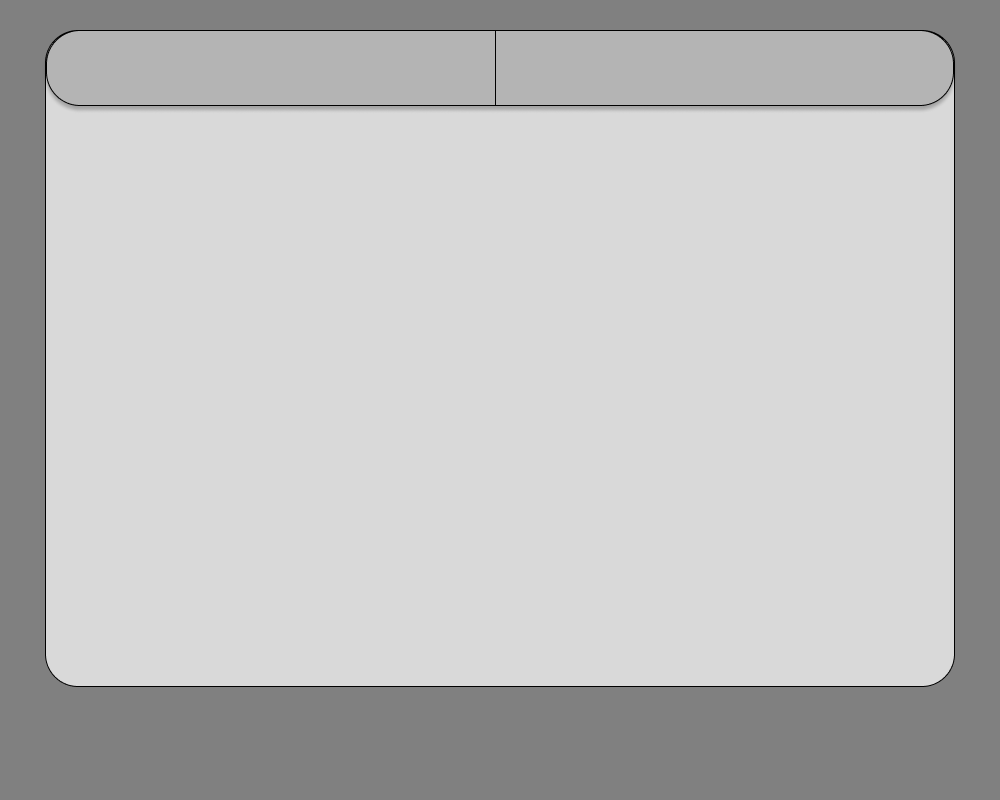
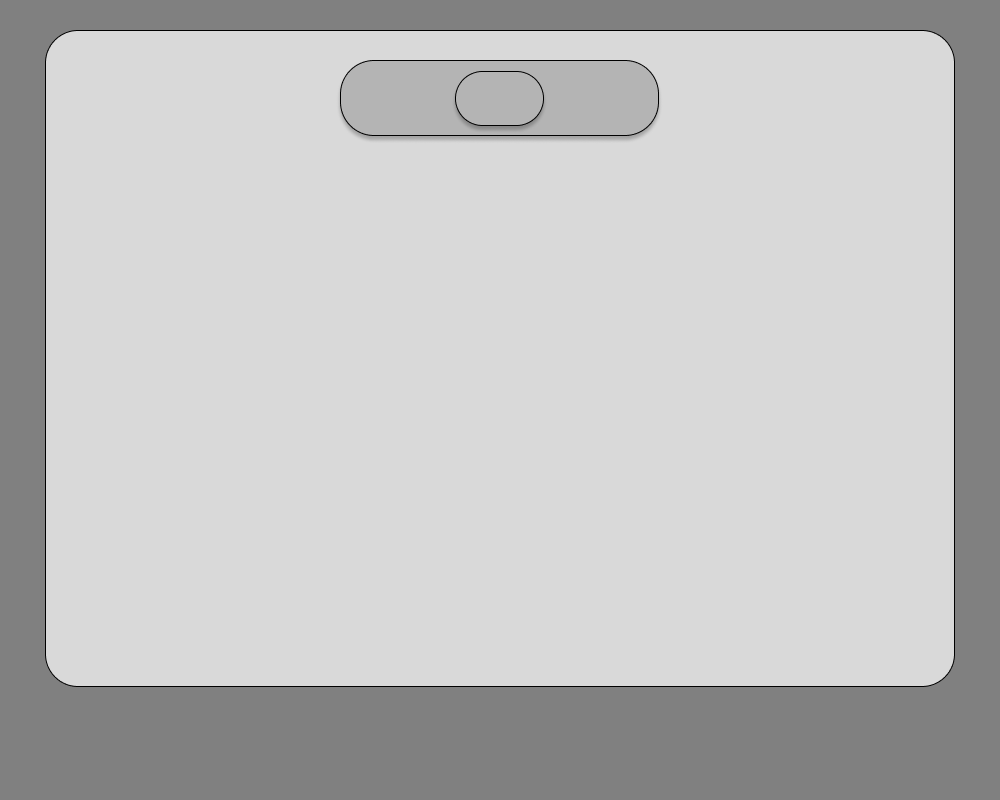
game juice, new ui design and more

Changed region(s): [[0.031, 0.0312, 0.961, 0.1875]]

diff --git a/main.py b/main.py
@@ -1,4 +1,5 @@
 import random
+import math
 import pygame
 import os
 import datasave
@@ -64,6 +65,8 @@ pickable_namacoin = pygame.image.load("assets/images/UI/NamaCoin.png").convert_a
 
 locked_button_gfield = pygame.image.load("assets/images/UI/locked_button_1000.png").convert_alpha()
 
+locked_exchange_button = pygame.image.load("assets/images/UI/locked_button_1000.png").convert_alpha()
+
 shelf_bg = pygame.image.load("assets/images/UI/shelf_bg.png")
 
 shop_bg = pygame.image.load("assets/images/UI/shop_bg.png")
@@ -77,6 +80,8 @@ exc_mark = pygame.image.load("assets/images/UI/exc_mark.png")
 seoul_bg = pygame.image.load("assets/images/UI/seoul_bg.png")
 
 exchanger_bg = pygame.image.load("assets/images/UI/exchanger_bg.png")
+
+click_image = pygame.image.load("assets/images/UI/click_image.png")
 
 beluash_preview = pygame.image.load("assets/images/UI/beluash_preview.png").convert_alpha()
 contestant_preview = pygame.image.load("assets/images/UI/contestant_preview.png").convert_alpha()
@@ -209,15 +214,15 @@ class NamaPassbanner:
 class Namas:
     def __init__(self, name, path, chance):
         self.name = name
-        self.pos = (W // 2, 300)
+        self.base_pos = (W // 2, H // 2)
+        self.pos = self.base_pos
         self.original_image = pygame.image.load(path).convert_alpha()
         self.image = self.original_image
         self.rect = self.image.get_rect(center=self.pos)
         self.chance = chance
-        self.scale = 1.0
-        self.target_scale = 1.0
-        self.scale_speed = 0.15
-        self.pulsing = False
+        self.sway_time = 0.0
+        self.sway_duration = 0.15  # секунды лёгкого качания
+        self.sway_amplitude = 4    # пиксели влево/вправо
 
     def draw(self, screen):
         screen.blit(self.image, self.rect)
@@ -226,26 +231,24 @@ class Namas:
         self.clicks += amount * boost
 
     def update(self):
-        if self.scale != self.target_scale:
-            self.scale += (self.target_scale - self.scale) * self.scale_speed
+        # лёгкое качание по горизонтали
+        if self.sway_time > 0.0:
+            # уменьшаем оставшееся время
+            self.sway_time -= 1.0 / FPS
+            # фаза от 0 до 1
+            t = max(0.0, self.sway_time / self.sway_duration)
+            # чем ближе к концу — тем меньше амплитуда
+            offset = math.sin((1.0 - t) * math.pi * 4) * self.sway_amplitude * t
+            self.pos = (self.base_pos[0] + offset, self.base_pos[1])
+        else:
+            self.pos = self.base_pos
 
-            if abs(self.scale - self.target_scale) < 0.01:
-                self.scale = self.target_scale
-                if self.pulsing:
-                    self.target_scale = 1.0
-                    self.pulsing = False
-
-            size = (
-                int(self.original_image.get_width() * self.scale),
-                int(self.original_image.get_height() * self.scale),
-            )
-            self.image = pygame.transform.smoothscale(self.original_image, size)
-            self.rect = self.image.get_rect(center=self.pos)
+        # пересчёт прямоугольника (размеры не меняем)
+        self.rect = self.image.get_rect(center=self.pos)
 
     def pulse(self):
-        self.scale = 0.85
-        self.target_scale = 1.0 
-        self.pulsing = True
+        # запуск лёгкого качания при клике (без изменения размера)
+        self.sway_time = self.sway_duration
 
 class NamaPlayer():
     def __init__(self):
@@ -585,6 +588,16 @@ class BoostCoin(Coin):
             )
         )
 
+class Course:
+    def __init__(self) -> None:
+        self.course_coins = 0.0
+        self.course_clicks = 0.0
+
+    def courses_update(self):
+        self.course_clicks = float(EXCHANGE_CLICKS_PER_NAMACOIN)
+        self.course_coins = round(1.0 / EXCHANGE_CLICKS_PER_NAMACOIN, 6)
+        return self.course_coins, self.course_clicks
+
 def add_clicks():
     global \
         tama_on_screen, \
@@ -594,6 +607,7 @@ def add_clicks():
         seen_tamas, \
         boost_pos, \
         boost
+    total_clicks = int(total_clicks)
     total_clicks += 1 * boost
     show_boost = True
     clicking_text_timer.reset()
@@ -611,15 +625,6 @@ def add_clicks():
         random.randint(0, H - 50),
     )
 
-class Course:
-    def __init__(self) -> None:
-        self.course_coins = 0.0
-        self.course_clicks = 0.0
-
-    def courses_update(self):
-        self.course_clicks = float(EXCHANGE_CLICKS_PER_NAMACOIN)
-        self.course_coins = round(1.0 / EXCHANGE_CLICKS_PER_NAMACOIN, 6)
-        return self.course_coins, self.course_clicks
 
 def choose_tama(tamas):
     total_chance = sum(t.chance for t in tamas)
@@ -740,7 +745,7 @@ button_buy_bear = Button((W // 2) - (183 // 2), 550)
 button_buy_beluash = Button((W // 2) - (183 // 2), 550)
 button_buy_contestant = Button((W // 2) - (183 // 2), 550)
 
-button_exchanging = Button(400, 40)
+button_exchanging = Button(408, 60)
 button_exchanging_back_to_shop = Button(400, 40)
 
 button_exchange_to_coins = Button(500 - (183 // 2), 310)
@@ -796,6 +801,9 @@ coin_boost_active = False
 total_clicks = 0
 NamaCoins = 0
 boost = 1
+
+last_total_clicks_for_shake = 0
+clicks_shake_timer = Timer(200)
 
 show_boost = False
 next_mode = ""
@@ -944,7 +952,7 @@ while running:
                 button_boost.rect.collidepoint(event.pos)
                 and mode == "game"
             ):
-                if total_clicks >= required_clicks_for_boost:
+                if total_clicks >= required_clicks_for_boost and boost < 50:
                     total_clicks -= required_clicks_for_boost
                     boost += 1
                     required_clicks_for_boost *= 1.5
@@ -1018,8 +1026,8 @@ while running:
                         NamaCoins += gained_coins
                         total_clicks = int(total_clicks % EXCHANGE_CLICKS_PER_NAMACOIN)
                         coins_collecting.play()
-                    else:
-                        purchase_failed.play()
+                else:
+                    purchase_failed.play()
 
             if (
                 button_exchange_to_clicks.rect.collidepoint(event.pos)
@@ -1031,8 +1039,8 @@ while running:
                         total_clicks += gained_clicks
                         NamaCoins = 0
                         coins_collecting.play()
-                    else:
-                        purchase_failed.play()
+                else:
+                    purchase_failed.play()
        
 
             #namapass
@@ -1296,8 +1304,6 @@ while running:
         )
         tama_on_screen.update()
         tama_on_screen.draw(screen)
-        clicks_text = font_40.render(str(total_clicks), True, WHITE)
-        screen.blit(clicks_text, (W // 2 - clicks_text.get_width() // 2, 440))
         if tama_on_screen.name == "glitch" and not cfa_IT.unlocked:
             cfa_IT.unlocked = True
             cfa_IT.show_popup = True
@@ -1309,8 +1315,13 @@ while running:
             cfa_sanic_popout.timer.reset()
             sanic_sound.play()
         if show_boost and mode == "game":
+            # Небольшая тряска текста "+boost"
+            shake_x = random.randint(-2, 2)
+            shake_y = random.randint(-2, 2)
+            boost_pos_shaken = (boost_pos[0] + shake_x, boost_pos[1] + shake_y)
             screen.blit(
-                font_30.render(f"+{boost}", True, WHITE), boost_pos
+                font_30.render(f"+{boost}", True, WHITE),
+                boost_pos_shaken,
             )
             if clicking_text_timer.done() and mode == "game":
                 show_boost = False
@@ -1353,7 +1364,6 @@ while running:
             (button_to_game_from_menu.x + 18, button_to_game_from_menu.y + 85.5),
         )
         screen.blit(
-            
             font_30.render("Играть", True, BLACK),
             (button_to_game_from_menu.x + 50, button_to_game_from_menu.y + 10.5),
         )
@@ -1513,6 +1523,8 @@ while running:
                 font_30.render("Обменник", True, BLACK),
                 (button_exchanging.x + 25, button_exchanging.y + 10.5)
             )
+        else:
+            screen.blit(locked_exchange_button, (button_exchanging.x, button_exchanging.y))
         beluash.draw(screen)
         energy_drink.draw(screen)
         minigun.draw(screen)
@@ -1781,6 +1793,10 @@ while running:
             mode = next_mode
             isLoading = False
     
+    if total_clicks != last_total_clicks_for_shake:
+        last_total_clicks_for_shake = total_clicks
+        clicks_shake_timer.reset()
+
     if total_clicks >= 1000:
         isReached1000clicks = True
 
@@ -1792,13 +1808,25 @@ while running:
         and mode != "credits"
         and mode != "settings"
         and mode != "achievements"
+        and mode != "NamaPass"
     ):
-        screen.blit(angle_frame, (781, 0))
-        screen.blit(NamaCoin_image, (792, 7))
+        screen.blit(angle_frame, (776, 0))
+        screen.blit(NamaCoin_image, (792, 0))
+        screen.blit(click_image, (792, 47))
         screen.blit(
             font_30.render(f": {NamaCoins}", True, BLACK),
-            (865, 20)
+            (860, 13)
         )
+
+        # Тряска счётчика кликов при изменении total_clicks
+        clicks_text = font_30.render(f": {int(total_clicks)}", True, BLACK)
+        if not clicks_shake_timer.done():
+            shake_x = random.randint(-1, 1)
+            shake_y = random.randint(-1, 1)
+            screen.blit(clicks_text, (860 + shake_x, 60 + shake_y))
+        else:
+            screen.blit(clicks_text, (860, 60))
+
 
     save_system.maybe_autosave(globals())
     pygame.display.flip()
